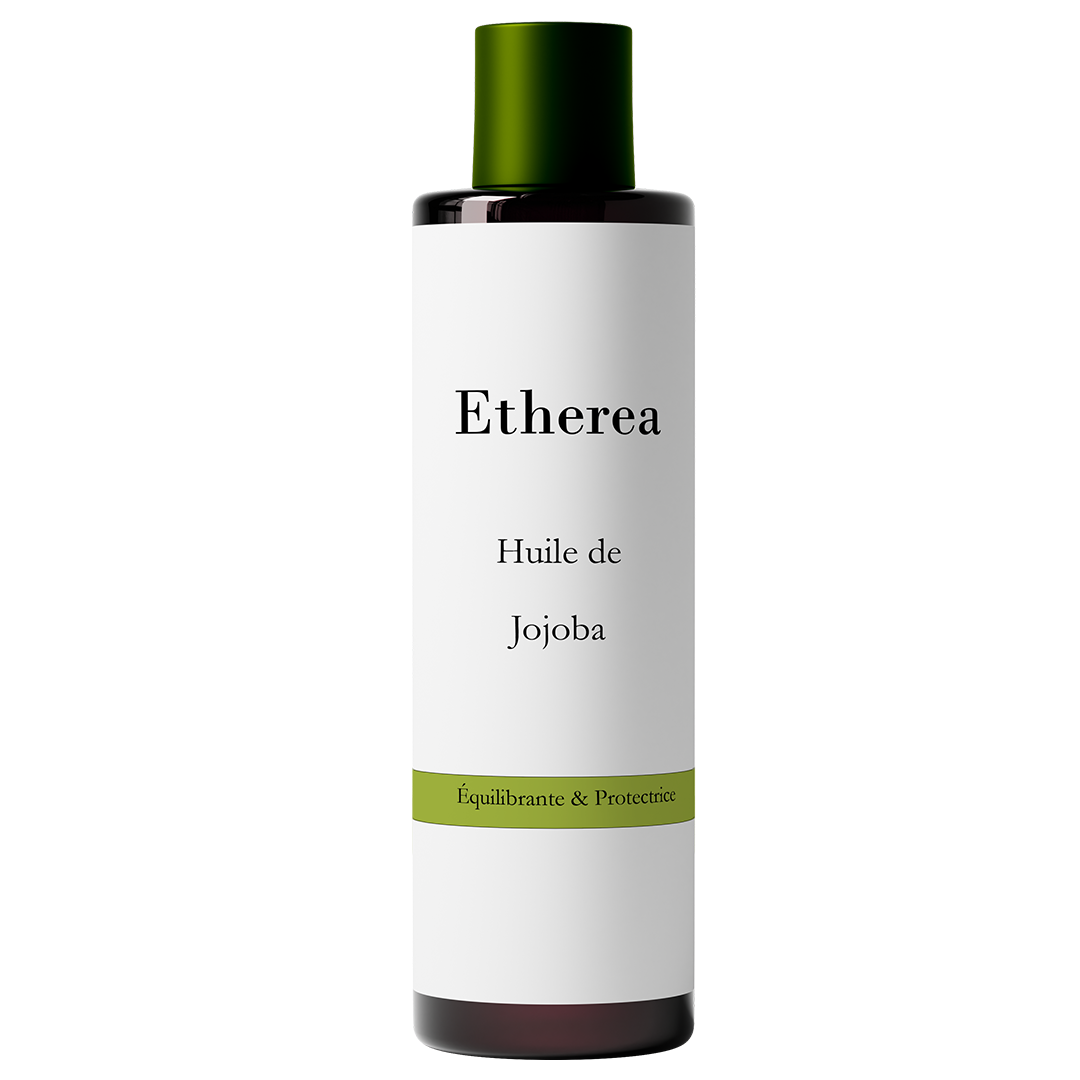
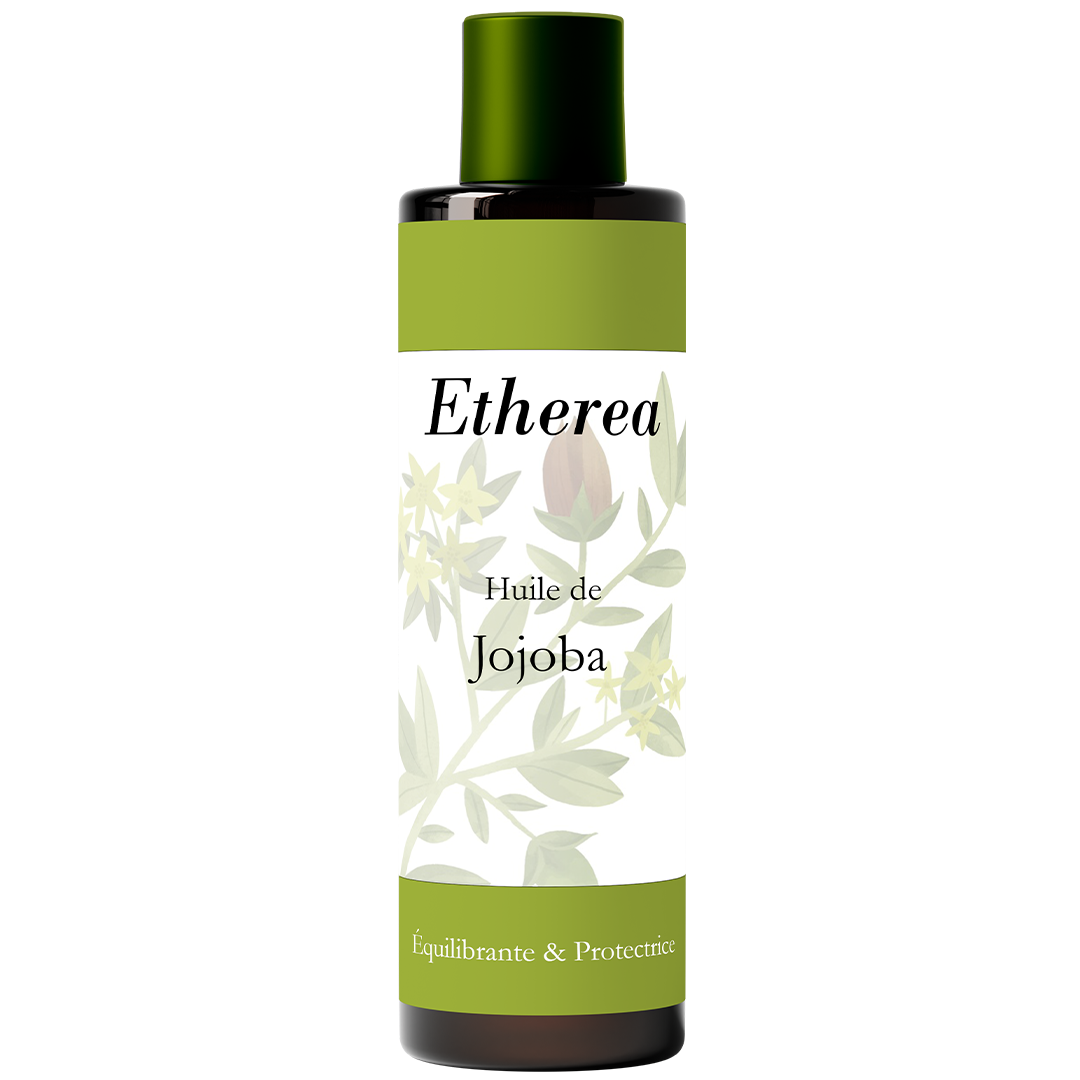
Modification of the backend and frontend to allow face and hair products to be displayed simultaneously on the home page, as well as the creation of dedicated pages for each product category. Modifications also include updates to oil bottle images

Changed region(s): [[0.3667, 0.0, 0.6417, 1.0]]

diff --git a/etherea-frontend/src/app/components/home/home.component.ts b/etherea-frontend/src/app/components/home/home.component.ts
@@ -17,19 +17,16 @@ export class HomeComponent implements OnDestroy {
   }
 
   private loadProducts(): void {
-    const productType = 'face'; // Type de produit pour le visage
-    const page = 0; // Numéro de la page
-    const size = 10; // Taille de la page
-    this.products$ = this.productService
-      .getProducts(productType, page, size)
-      .pipe(
-        catchError((error) => {
-          console.error('Error fetching products:', error);
-          console.error('Failed to load products. Please try again later.');
-          return [];
-        }),
-        takeUntil(this.destroy$)
-      );
+    // Ajouter le paramètre limit pour spécifier le nombre de produits
+    this.products$ = this.productService.getProducts(12).pipe(
+      catchError((error) => {
+        console.error('Error fetching products:', error);
+
+        console.error('Failed to load products. Please try again later.');
+        return [];
+      }),
+      takeUntil(this.destroy$)
+    );
   }
 
   ngOnDestroy(): void {

diff --git a/etherea-frontend/src/app/services/product.service.ts b/etherea-frontend/src/app/services/product.service.ts
@@ -12,12 +12,26 @@ export class ProductService {
 
   constructor(private httpClient: HttpClient) {}
 
-  getProducts(
+  getProducts(limit: number = 0): Observable<IProduct[]> {
+    const url =
+      limit > 0
+        ? `${this.apiUrl}/products?limit=${limit}`
+        : `${this.apiUrl}/products`;
+    return this.httpClient.get<IProduct[]>(url).pipe(
+      catchError((error) => {
+        console.error('Error fetching products:', error);
+        console.error('Failed to load products. Please try again later.');
+        return [];
+      })
+    );
+  }
+
+  getProductsByType(
     type: string,
     page: number,
     size: number
   ): Observable<IProduct[]> {
-    const url = `${this.apiUrl}/products`;
+    const url = `${this.apiUrl}/products/type`;
     let params = new HttpParams();
     params = params.append('type', type);
     params = params.append('page', page.toString());

diff --git a/etherea-frontend/src/app/components/hair/hair.component.ts b/etherea-frontend/src/app/components/hair/hair.component.ts
@@ -20,7 +20,7 @@ export class HairComponent implements OnDestroy {
     const page = 0; // Numéro de la page
     const size = 10; // Taille de la page
     this.products$ = this.productService
-      .getProducts('HAIR', page, size) // Utilisez 'hair' comme type pour les produits des cheveux
+      .getProductsByType('HAIR', page, size) // Utilisez 'hair' comme type pour les produits des cheveux
       .pipe(
         catchError((error) => {
           console.error('Error fetching hair products:', error);

diff --git a/etherea-frontend/src/app/components/cream/cream.component.ts b/etherea-frontend/src/app/components/cream/cream.component.ts
@@ -21,7 +21,7 @@ export class CreamComponent implements OnDestroy {
     const page = 0; // Numéro de la page
     const size = 10; // Taille de la page
     this.products$ = this.productService
-      .getProducts(productType, page, size)
+      .getProductsByType(productType, page, size)
       .pipe(
         catchError((error) => {
           console.error('Erreur lors de la récupération des produits :', error);

diff --git a/etherea-backend/src/main/java/com/etherea/services/ProductService.java b/etherea-backend/src/main/java/com/etherea/services/ProductService.java
@@ -26,6 +26,8 @@ import java.nio.file.Files;
 import java.nio.file.Path;
 import java.nio.file.Paths;
 import java.nio.file.StandardCopyOption;
+import java.util.ArrayList;
+import java.util.Collections;
 import java.util.List;
 import java.util.Optional;
 import java.util.stream.Collectors;
@@ -36,7 +38,24 @@ public class ProductService {
     private ProductRepository productRepository;
     private static final Logger logger = LoggerFactory.getLogger(ProductService.class);
     private static final String UPLOAD_DIR = "assets";
-    public List<ProductDTO> getProducts(Pageable pageable, ProductType type) {
+
+    public List<ProductDTO> getProducts(int limit) {
+        List<Product> facialProducts = productRepository.findByType(ProductType.FACE, PageRequest.of(0, limit / 2, Sort.by(Sort.Direction.ASC, "id"))).getContent();
+        List<Product> hairProducts = productRepository.findByType(ProductType.HAIR, PageRequest.of(0, limit / 2, Sort.by(Sort.Direction.ASC, "id"))).getContent();
+
+        List<Product> allProducts = new ArrayList<>();
+        allProducts.addAll(facialProducts);
+        allProducts.addAll(hairProducts);
+
+        // Mélanger la liste de tous les produits
+        Collections.shuffle(allProducts);
+
+        return allProducts.stream()
+                .map(ProductDTO::fromProduct)
+                .collect(Collectors.toList());
+    }
+
+    public List<ProductDTO> getProductsByType(Pageable pageable, ProductType type) {
         Page<Product> productPage = productRepository.findByType(type, pageable);
         return productPage.getContent().stream()
                 .map(ProductDTO::fromProduct)
@@ -62,7 +81,6 @@ public class ProductService {
         if (fileName.contains("..")) {
             throw new IllegalArgumentException("Invalid file name");
         }
-
         try {
             Path uploadPath = Paths.get(UPLOAD_DIR);
             Files.createDirectories(uploadPath);

diff --git a/etherea-backend/src/main/java/com/etherea/controllers/ProductController.java b/etherea-backend/src/main/java/com/etherea/controllers/ProductController.java
@@ -29,12 +29,19 @@ public class ProductController {
     private ProductService productService;
     private static final Logger logger = LoggerFactory.getLogger(ProductController.class);
 
+
     @GetMapping
+    public List<ProductDTO> getProducts() {
+        int limit = 10; // Limite de produits à récupérer pour chaque type
+        return productService.getProducts(limit);
+    }
+
+    @GetMapping("/type")
     public List<ProductDTO> getProductsByTypeAndPagination(@RequestParam(defaultValue = "0") int page,
                                                            @RequestParam(defaultValue = "10") int size,
                                                            @RequestParam ProductType type) {
         Pageable pageable = PageRequest.of(page, size);
-        return productService.getProducts(pageable, type);
+        return productService.getProductsByType(pageable, type);
     }
     @GetMapping("/{id}")
     public ResponseEntity<?> getProductById(@PathVariable Long id) {

diff --git a/etherea-backend/src/main/java/com/etherea/EthereaApplication.java b/etherea-backend/src/main/java/com/etherea/EthereaApplication.java
@@ -1,7 +1,16 @@
 package com.etherea;
 
+import com.etherea.dtos.ProductDTO;
+import com.etherea.models.Product;
+import com.etherea.services.ProductService;
+import org.springframework.beans.factory.annotation.Autowired;
+import org.springframework.boot.CommandLineRunner;
 import org.springframework.boot.SpringApplication;
 import org.springframework.boot.autoconfigure.SpringBootApplication;
+import org.springframework.stereotype.Component;
+
+import java.util.Collections;
+import java.util.List;
 
 @SpringBootApplication
 public class EthereaApplication {

diff --git a/etherea-backend/src/main/java/com/etherea/repositories/ProductRepository.java b/etherea-backend/src/main/java/com/etherea/repositories/ProductRepository.java
@@ -12,6 +12,7 @@ import java.util.List;
 @Repository
 public interface ProductRepository  extends JpaRepository<Product, Long> {
     Page<Product> findByType(ProductType type, Pageable pageable);
+    //Page<Product> findByTypeAndIsNew(ProductType type, boolean NEW, Pageable pageable);
 
 
 }
